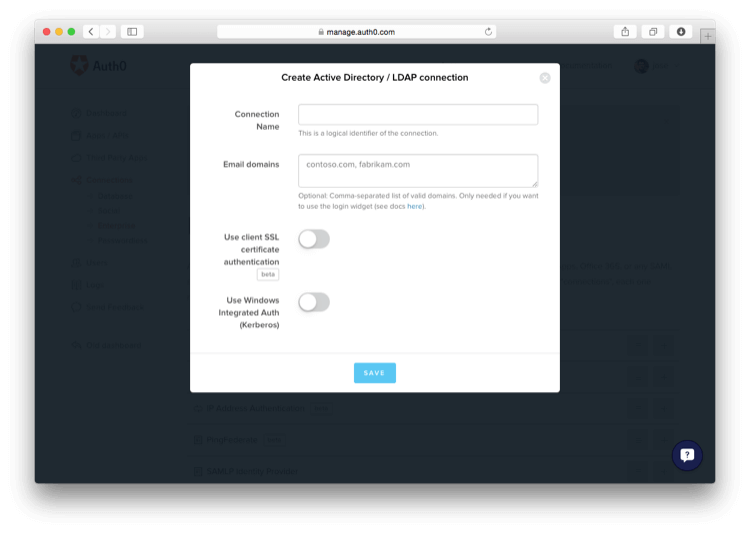
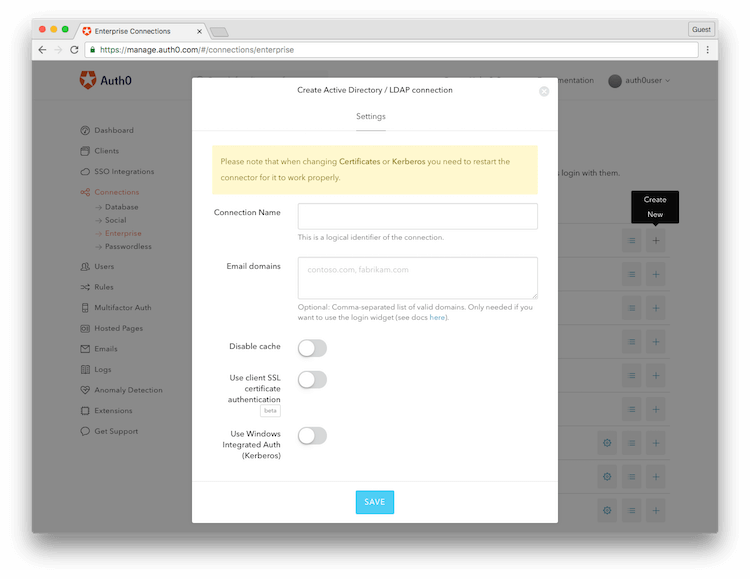
Update screenshots

diff --git a/articles/connections/enterprise/active-directory.md b/articles/connections/enterprise/active-directory.md
@@ -34,6 +34,8 @@ In the *Email domains* field, list the user email domains that will be allowed t
 
 If you want to use **Kerberos** with this connection, enter a range of IP addresses where **Kerberos** authentication will be enabled from. Typically, these would be intranet addresses.
 
+If you would like to disable caching, enable the appropriate slider.
+
 ![](/media/articles/connections/enterprise/active-directory/ldap-create-2.png)
 
 Click **Save**. You are done on the Auth0 side. Click the button on the next page to download the **AD/LDAP Connector** installer to your machine.
